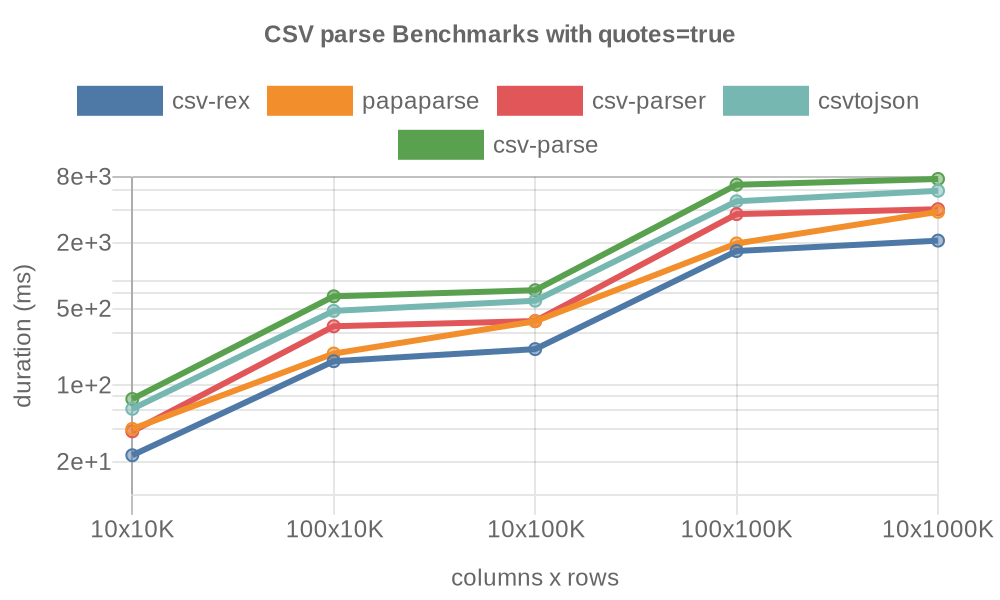
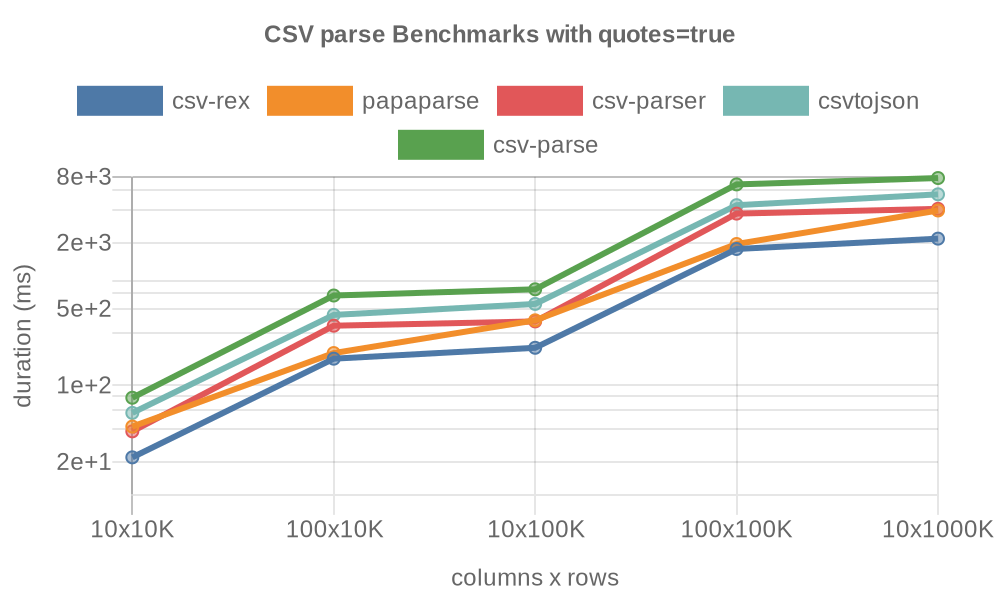
ci: update results

Changed region(s): [[0.124, 0.3, 0.961, 0.78]]

diff --git a/README.md b/README.md
@@ -5,13 +5,13 @@ Benchmarks of popular CSV parsers and formatters:
 <!-- packages -->
 | Package | Version | Published | Parse | Format 
 |---------|---------|-----------|-------|--------
-| [csv-parse](https://www.npmjs.com/package/csv-parse) | 5.5.6 | 3 weeks ago | Yes |  
-| [csv-parser](https://www.npmjs.com/package/csv-parser) | 3.0.0 | 3 years ago | Yes |  
+| [csv-parse](https://www.npmjs.com/package/csv-parse) | 5.5.6 | 2 months ago | Yes |  
+| [csv-parser](https://www.npmjs.com/package/csv-parser) | 3.0.0 | 4 years ago | Yes |  
 | [csv-rex](https://www.npmjs.com/package/csv-rex) | 0.7.0 | 1 year ago | Yes | Yes 
 | [csv-streamify](https://www.npmjs.com/package/csv-streamify) | 4.0.0 | 6 years ago | Yes |  
-| [csv-stringify](https://www.npmjs.com/package/csv-stringify) | 6.5.0 | 3 weeks ago |  | Yes 
+| [csv-stringify](https://www.npmjs.com/package/csv-stringify) | 6.5.0 | 2 months ago |  | Yes 
 | [csvtojson](https://www.npmjs.com/package/csvtojson) | 2.0.10 | 5 years ago | Yes |  
-| [fast-csv](https://www.npmjs.com/package/fast-csv) | 5.0.1 | 4 months ago | Yes | Yes 
+| [fast-csv](https://www.npmjs.com/package/fast-csv) | 5.0.1 | 5 months ago | Yes | Yes 
 | [papaparse](https://www.npmjs.com/package/papaparse) | 5.4.1 | 1 year ago | Yes |  
 <!-- packages -->
 
@@ -39,13 +39,13 @@ Benchmarked on GitHub Actions. Only the fastest 5 will be visualized.
 <!-- parse quotes=true -->
 | Package | 10x10K | 100x10K | 10x100K | 100x100K | 10x1000K 
 |---------|---|---|---|---|---
-| **csv-rex** | 23ms | 166ms | 214ms | 1,682ms | 2,092ms 
-| **papaparse** | 40ms | 195ms | 384ms | 1,971ms | 3,834ms 
-| **csv-parser** | 38ms | 346ms | 386ms | 3,651ms | 4,049ms 
-| **csvtojson** | 61ms | 478ms | 592ms | 4,784ms | 5,968ms 
-| **csv-parse** | 75ms | 649ms | 738ms | 6,766ms | 7,645ms 
-| **csv-streamify** | 74ms | 711ms | 820ms | 7,925ms | 9,060ms 
-| **fast-csv** | 108ms | 944ms | 1,097ms | 9,744ms | 12,073ms 
+| **csv-rex** | 22ms | 175ms | 220ms | 1,755ms | 2,181ms 
+| **papaparse** | 42ms | 197ms | 392ms | 1,949ms | 3,942ms 
+| **csv-parser** | 38ms | 350ms | 383ms | 3,691ms | 4,081ms 
+| **csvtojson** | 56ms | 439ms | 553ms | 4,406ms | 5,534ms 
+| **csv-parse** | 77ms | 660ms | 752ms | 6,818ms | 7,794ms 
+| **csv-streamify** | 72ms | 694ms | 799ms | 7,669ms | 8,845ms 
+| **fast-csv** | 105ms | 921ms | 1,082ms | 9,647ms | 11,214ms 
 <!-- parse quotes=true -->
 
 ![Non-Quoted CSV Parser Benchmarks](https://github.com/willfarrell/csv-benchmarks/raw/main/results/parse_quotes%3Dfalse.png)
@@ -53,13 +53,13 @@ Benchmarked on GitHub Actions. Only the fastest 5 will be visualized.
 <!-- parse quotes=false -->
 | Package | 10x10K | 100x10K | 10x100K | 100x100K | 10x1000K 
 |---------|---|---|---|---|---
-| **csv-rex** | 9ms | 42ms | 79ms | 432ms | 784ms 
-| **csvtojson** | 33ms | 251ms | 390ms | 2,637ms | 3,366ms 
-| **csv-parser** | 33ms | 307ms | 344ms | 3,284ms | 3,673ms 
-| **papaparse** | 122ms | 58ms | 1,110ms | 526ms | 9,996ms 
-| **csv-parse** | 58ms | 507ms | 590ms | 5,334ms | 6,312ms 
-| **csv-streamify** | 65ms | 664ms | 774ms | 7,558ms | 8,668ms 
-| **fast-csv** | 91ms | 909ms | 939ms | 9,381ms | 10,584ms 
+| **csv-rex** | 9ms | 45ms | 82ms | 449ms | 819ms 
+| **csvtojson** | 33ms | 249ms | 329ms | 2,488ms | 3,315ms 
+| **csv-parser** | 33ms | 303ms | 344ms | 3,271ms | 3,671ms 
+| **papaparse** | 121ms | 59ms | 1,106ms | 545ms | 9,965ms 
+| **csv-parse** | 58ms | 520ms | 607ms | 5,439ms | 6,207ms 
+| **csv-streamify** | 63ms | 648ms | 756ms | 7,391ms | 8,531ms 
+| **fast-csv** | 86ms | 767ms | 901ms | 7,834ms | 9,170ms 
 <!-- parse quotes=false -->
 
 ### Format
@@ -69,9 +69,9 @@ Benchmarked on GitHub Actions. Only the fastest 5 will be visualized.
 <!-- format quotes=false -->
 | Package | 10x10K | 100x10K | 10x100K | 100x100K | 10x1000K 
 |---------|---|---|---|---|---
-| **csv-rex** | 22ms | 107ms | 221ms | 1,085ms | 2,243ms 
-| **csv-stringify** | 25ms | 112ms | 252ms | 1,123ms | 2,447ms 
-| **fast-csv** | 29ms | 129ms | 284ms | 1,581ms | 3,214ms 
+| **csv-rex** | 22ms | 106ms | 220ms | 1,062ms | 2,212ms 
+| **csv-stringify** | 25ms | 112ms | 246ms | 1,112ms | 2,401ms 
+| **fast-csv** | 27ms | 125ms | 277ms | 1,229ms | 2,769ms 
 <!-- format quotes=false -->
 
 ## Thanks

diff --git a/results/parse_quotes=true.md b/results/parse_quotes=true.md
@@ -1,9 +1,9 @@
 | Package | 10x10K | 100x10K | 10x100K | 100x100K | 10x1000K 
 |---------|---|---|---|---|---
-| **csv-rex** | 23ms | 166ms | 214ms | 1,682ms | 2,092ms 
-| **papaparse** | 40ms | 195ms | 384ms | 1,971ms | 3,834ms 
-| **csv-parser** | 38ms | 346ms | 386ms | 3,651ms | 4,049ms 
-| **csvtojson** | 61ms | 478ms | 592ms | 4,784ms | 5,968ms 
-| **csv-parse** | 75ms | 649ms | 738ms | 6,766ms | 7,645ms 
-| **csv-streamify** | 74ms | 711ms | 820ms | 7,925ms | 9,060ms 
-| **fast-csv** | 108ms | 944ms | 1,097ms | 9,744ms | 12,073ms 
+| **csv-rex** | 22ms | 175ms | 220ms | 1,755ms | 2,181ms 
+| **papaparse** | 42ms | 197ms | 392ms | 1,949ms | 3,942ms 
+| **csv-parser** | 38ms | 350ms | 383ms | 3,691ms | 4,081ms 
+| **csvtojson** | 56ms | 439ms | 553ms | 4,406ms | 5,534ms 
+| **csv-parse** | 77ms | 660ms | 752ms | 6,818ms | 7,794ms 
+| **csv-streamify** | 72ms | 694ms | 799ms | 7,669ms | 8,845ms 
+| **fast-csv** | 105ms | 921ms | 1,082ms | 9,647ms | 11,214ms 

diff --git a/results/parse_quotes=false.md b/results/parse_quotes=false.md
@@ -1,9 +1,9 @@
 | Package | 10x10K | 100x10K | 10x100K | 100x100K | 10x1000K 
 |---------|---|---|---|---|---
-| **csv-rex** | 9ms | 42ms | 79ms | 432ms | 784ms 
-| **csvtojson** | 33ms | 251ms | 390ms | 2,637ms | 3,366ms 
-| **csv-parser** | 33ms | 307ms | 344ms | 3,284ms | 3,673ms 
-| **papaparse** | 122ms | 58ms | 1,110ms | 526ms | 9,996ms 
-| **csv-parse** | 58ms | 507ms | 590ms | 5,334ms | 6,312ms 
-| **csv-streamify** | 65ms | 664ms | 774ms | 7,558ms | 8,668ms 
-| **fast-csv** | 91ms | 909ms | 939ms | 9,381ms | 10,584ms 
+| **csv-rex** | 9ms | 45ms | 82ms | 449ms | 819ms 
+| **csvtojson** | 33ms | 249ms | 329ms | 2,488ms | 3,315ms 
+| **csv-parser** | 33ms | 303ms | 344ms | 3,271ms | 3,671ms 
+| **papaparse** | 121ms | 59ms | 1,106ms | 545ms | 9,965ms 
+| **csv-parse** | 58ms | 520ms | 607ms | 5,439ms | 6,207ms 
+| **csv-streamify** | 63ms | 648ms | 756ms | 7,391ms | 8,531ms 
+| **fast-csv** | 86ms | 767ms | 901ms | 7,834ms | 9,170ms 

diff --git a/results/format_quotes=false.md b/results/format_quotes=false.md
@@ -1,5 +1,5 @@
 | Package | 10x10K | 100x10K | 10x100K | 100x100K | 10x1000K 
 |---------|---|---|---|---|---
-| **csv-rex** | 22ms | 107ms | 221ms | 1,085ms | 2,243ms 
-| **csv-stringify** | 25ms | 112ms | 252ms | 1,123ms | 2,447ms 
-| **fast-csv** | 29ms | 129ms | 284ms | 1,581ms | 3,214ms 
+| **csv-rex** | 22ms | 106ms | 220ms | 1,062ms | 2,212ms 
+| **csv-stringify** | 25ms | 112ms | 246ms | 1,112ms | 2,401ms 
+| **fast-csv** | 27ms | 125ms | 277ms | 1,229ms | 2,769ms 
